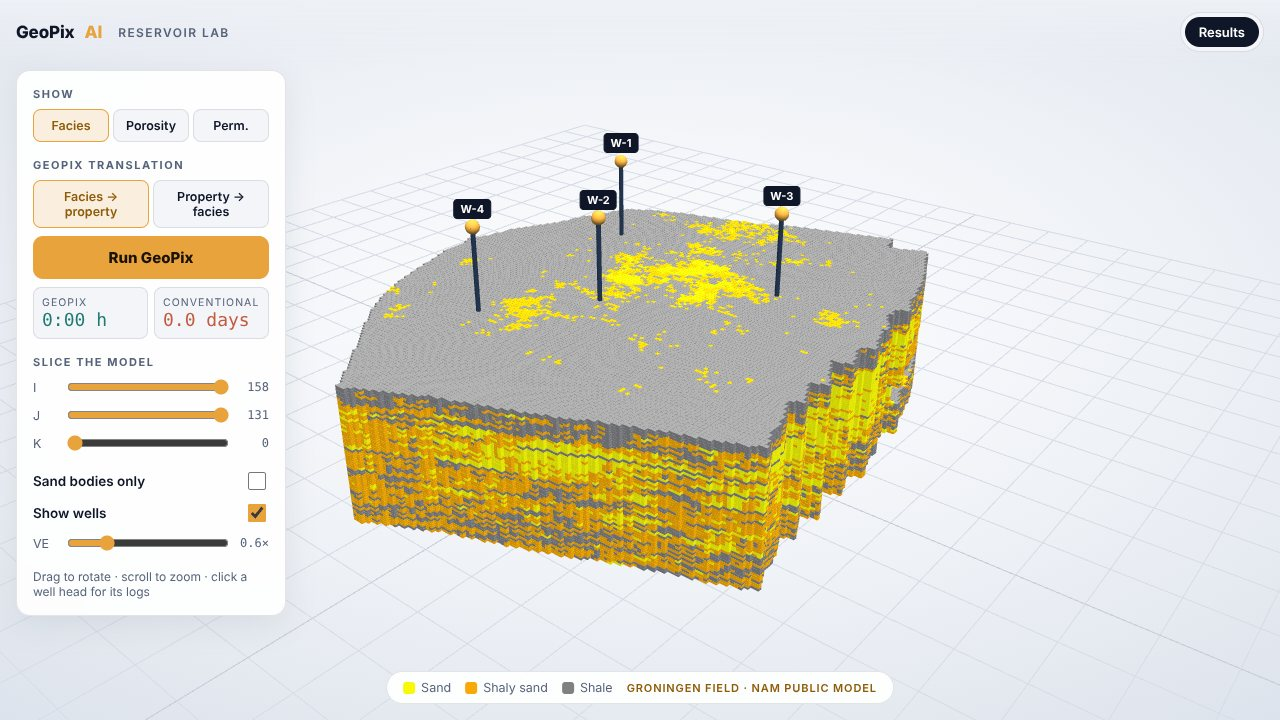
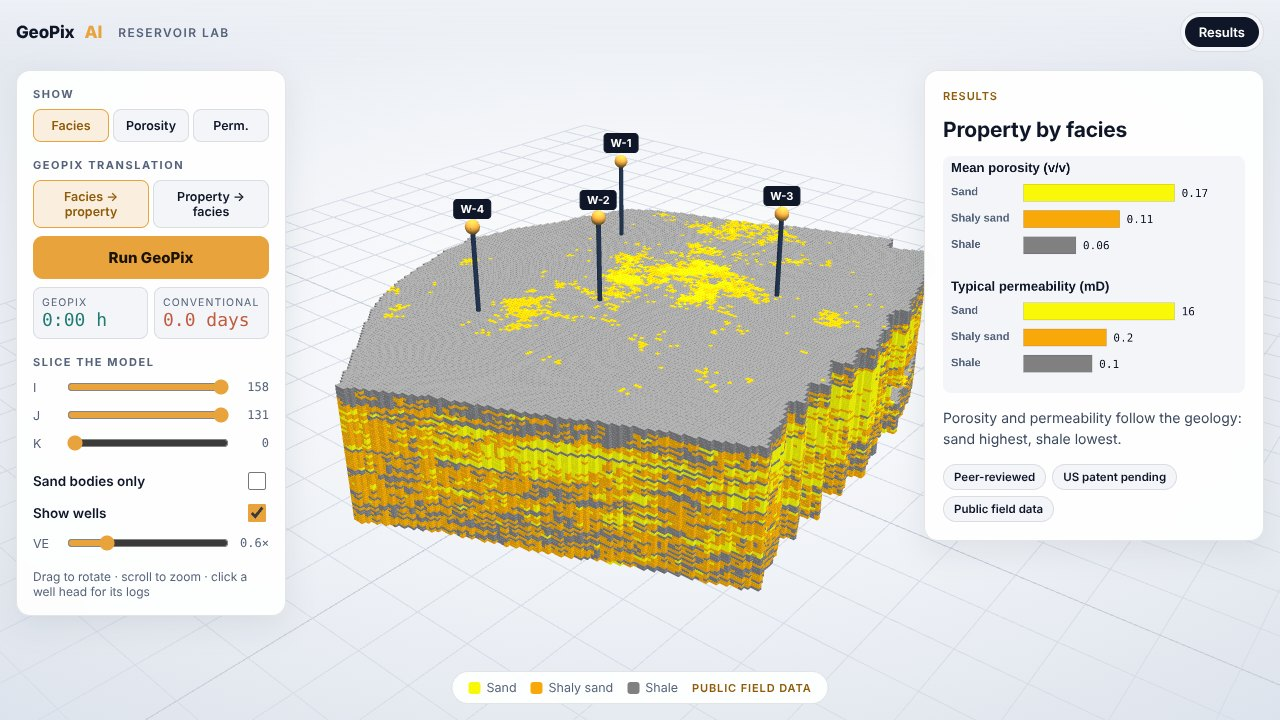
Remove field name from the 3D lab and site; neutral wording and data file names
Claude-Session: https://claude.ai/code/session_015ef8sZ4s8jMuEacFnn1uo6

diff --git a/lab/index.html b/lab/index.html
@@ -3,7 +3,7 @@
 <meta name="claude:viewport-fit-sides" content="cover">
 <link rel="stylesheet" href="https://fonts.googleapis.com/css2?family=Archivo:wght@500;600;700;800&family=IBM+Plex+Mono:wght@400;500&display=swap">
 <style>
-/* Layout: full-window 3D viewport of the real Groningen model; controls float left, info panel right. Light theme to match geopix-ai.com. */
+/* Layout: full-window 3D viewport of the real reservoir model; controls float left, info panel right. Light theme to match geopix-ai.com. */
 :root{
   --bg:#EEF1F6; --panel:rgba(255,255,255,.93); --panel-2:#F3F5F9; --line:rgba(14,22,40,.11);
   --ink:#0E1628; --dim:#55637A; --amber:#E8A33D; --amber-ink:#8F5B08; --teal:#1F7A72; --slow:#C25A3E;
@@ -77,8 +77,8 @@ button:focus-visible,input:focus-visible,a:focus-visible{outline:2px solid var(-
 }
 </style>
 
-<div id="scene" role="img" aria-label="3D view of the Groningen reservoir model with wells; drag to rotate, scroll to zoom"></div>
-<div class="loading" id="loading">Loading the Groningen reservoir model…</div>
+<div id="scene" role="img" aria-label="3D view of the reservoir model with wells; drag to rotate, scroll to zoom"></div>
+<div class="loading" id="loading">Loading the model…</div>
 
 <div class="topbar">
   <div class="brand">GeoPix <b>AI</b> <small>Reservoir Lab</small></div>
@@ -133,11 +133,11 @@ button:focus-visible,input:focus-visible,a:focus-visible{outline:2px solid var(-
 (async()=>{
 const reduce=matchMedia('(prefers-reduced-motion: reduce)').matches;
 
-/* ---------------- real data: NAM Groningen static model V6 (public), every 4th cell ---------------- */
+/* ---------------- real data: public static reservoir model, every 4th cell ---------------- */
 let meta,buf;
 try{
-  meta=await (await fetch('groningen.json')).json();
-  const b64=(await (await fetch('groningen.b64.txt')).text()).trim();
+  meta=await (await fetch('model.json')).json();
+  const b64=(await (await fetch('model.b64.txt')).text()).trim();
   const raw=Uint8Array.from(atob(b64),c=>c.charCodeAt(0));
   buf=new Uint8Array(await new Response(new Blob([raw]).stream().pipeThrough(new DecompressionStream('gzip'))).arrayBuffer());
 }catch(e){document.getElementById('loading').textContent='Could not load the reservoir model. Reload the page to try again.';return}
@@ -239,7 +239,7 @@ function legend(){const el=document.getElementById('legend'),p=S.prop;
   if(p==='facies')el.innerHTML=FN.map((n,i)=>`<span><i class="sw" style="background:rgb(${FC[i].map(v=>Math.round(v*255))})"></i>${n}</span>`).join('');
   if(p==='phi')el.innerHTML=`<span>Porosity</span><span>${PHI_LO}<i class="ramp" style="background:${css(JET)}"></i>${PHI_HI} v/v</span>`;
   if(p==='perm')el.innerHTML=`<span>Permeability</span><span>0.01<i class="ramp" style="background:${css(PJET)}"></i>1000 mD</span>`;
-  el.innerHTML+='<span class="tag">Groningen field · NAM public model</span>';
+  el.innerHTML+='<span class="tag">Public field data</span>';
 }
 
 /* ---------------- field statistics (computed from the data) ---------------- */
@@ -254,7 +254,7 @@ function renderInfo(){
     if(S.well){
       info.innerHTML=`<span class="tag">Well column</span><h2>${S.well.n}</h2>
         <div id="logs"><canvas width="600" height="600" aria-label="Facies, porosity and permeability down ${S.well.n}"></canvas></div>
-        <p class="note">Facies · porosity · log permeability through all ${NK} layers at this location, from the Groningen model.</p>
+        <p class="note">Facies · porosity · log permeability through all ${NK} layers at this location, from the reservoir model.</p>
         <button class="chip" id="closeWell">Back to results</button>`;
       drawLogs(S.well);document.getElementById('closeWell').onclick=()=>{S.well=null;S.tab='tech';syncTabs();renderInfo()};return;
     }

diff --git a/story.html b/story.html
@@ -377,7 +377,7 @@ function renderFull(){
     const t=T.find(x=>x[0]===S.ev)||T[0];
     full.innerHTML=`<div class="card full">
       <div><span class="eyebrow">The evidence</span><h2 style="font-family:var(--display);font-size:24px;margin:4px 0 0">The story above is a schematic. This is the measured result.</h2>
-      <p class="note" style="margin-top:6px;max-width:70ch">Everything on this page so far was drawn to explain the workflow. The figures and numbers below come from the peer-reviewed study on the Groningen field dataset.</p></div>
+      <p class="note" style="margin-top:6px;max-width:70ch">Everything on this page so far was drawn to explain the workflow. The figures and numbers below come from the peer-reviewed study on a public field dataset.</p></div>
       <div class="ev">
         <div class="ev-fig">
           <div class="evctl">
@@ -393,10 +393,10 @@ function renderFull(){
             <input type="range" id="evr" min="0" max="100" value="${S.evPos}" aria-label="Drag to compare">
           </div>
           <div class="lg">${S.evMode==='facies'?FL:''}${t[3]}</div>
-          <p class="note">One slice of the Groningen field model. ${S.evMode==='facies'?'Drag the handle: the facies on the left is the only input, and the property on the right is what GeoPix generated from it.':'Drag the handle to compare GeoPix output with the reference property on the same slice.'} Figures from Al-Fakih et al. (2026).</p>
+          <p class="note">One slice of the field model. ${S.evMode==='facies'?'Drag the handle: the facies on the left is the only input, and the property on the right is what GeoPix generated from it.':'Drag the handle to compare GeoPix output with the reference property on the same slice.'} Figures from Al-Fakih et al. (2026).</p>
         </div>
         <div class="ev-tab">
-          <p class="note" style="font-size:16px">Peer-reviewed in <i>Geoenergy Science and Engineering</i> (2026) on the Groningen field dataset. Full method and evaluation in the paper: doi.org/10.1016/j.geoen.2025.214342.</p>
+          <p class="note" style="font-size:16px">Peer-reviewed in <i>Geoenergy Science and Engineering</i> (2026) on a public field dataset. Full method and evaluation in the paper: doi.org/10.1016/j.geoen.2025.214342.</p>
         </div>
       </div>
       <div><span class="eyebrow">Evidence ledger</span>

diff --git a/index.html b/index.html
@@ -409,7 +409,7 @@
           <span class="t l">Facies</span><span class="t r" id="hwTag">GeoPix porosity</span>
         </div>
         <div class="hdots" id="hwDots"></div>
-        <figcaption class="cap">Real Pix2Geomodel outputs · Groningen field</figcaption>
+        <figcaption class="cap">Real Pix2Geomodel outputs · public field data</figcaption>
       </figure>
     </div>
   </section>
@@ -459,7 +459,7 @@
         <p class="lead">Pick a map, press Run, and compare the result with the reference.</p>
       </div>
       <div class="app reveal">
-        <div class="appbar"><i></i><i></i><i></i><span>GeoPix Studio</span><em>Real Pix2Geomodel results · Groningen field</em></div>
+        <div class="appbar"><i></i><i></i><i></i><span>GeoPix Studio</span><em>Real Pix2Geomodel results · public field data</em></div>
         <div class="appbody">
           <aside class="side">
             <div>
@@ -511,10 +511,10 @@
         <div class="tile reveal">
           <h3>Explore the field in 3D</h3>
           <div class="lab-frame" id="labFrame">
-            <img src="assets/lab-poster.jpg" alt="3D view of the Groningen reservoir model with four wells" loading="lazy">
+            <img src="assets/lab-poster.jpg" alt="3D view of the reservoir model with four wells" loading="lazy">
             <button class="go" id="labGo" type="button"><span>Launch the 3D lab</span></button>
           </div>
-          <div class="row"><span>Groningen field, NAM public model.</span><a href="lab/" target="_blank" rel="noopener">Full screen ↗</a></div>
+          <div class="row"><span>Real reservoir model, public field data.</span><a href="lab/" target="_blank" rel="noopener">Full screen ↗</a></div>
         </div>
       </div>
       <div class="soonbar reveal"><span class="badge2">Coming soon</span><b>Upload your own map</b><span class="t">and get the GeoPix result in seconds.</span><a href="#contact" data-interest="Technical Demonstration">Request early access →</a></div>

diff --git a/terms.html b/terms.html
@@ -4,7 +4,7 @@
 <body><header><div class="w"><a href="./">GeoPix <em>AI</em></a></div></header><main class="w"><h1>Terms of Service</h1><p class="d">Last updated: 21 October 2026</p>
 <p>These terms govern your use of geopix-ai.com (the "Site"), operated by GeoPix AI. By using the Site you agree to them.</p>
 <h2>Use of the Site</h2><p>The Site provides information about GeoPix AI and interactive demonstrations. You may browse it for lawful, non-commercial evaluation purposes. Do not attempt to copy, scrape, reverse-engineer or disrupt the Site or its demonstrations.</p>
-<h2>Demonstrations</h2><p>Demonstration results shown on the Site use public data (the NAM Groningen static reservoir model) and pre-computed outputs from published research. They illustrate the technology and are not a guarantee of results on any specific dataset.</p>
+<h2>Demonstrations</h2><p>Demonstration results shown on the Site use public data (a published static reservoir model) and pre-computed outputs from published research. They illustrate the technology and are not a guarantee of results on any specific dataset.</p>
 <h2>Intellectual property</h2><p>The GeoPix AI name, logo, Site content and the Pix2Geomodel technology are the property of GeoPix AI or its licensors. A patent application has been filed for the technology. Third-party names and logos belong to their respective owners and are shown to acknowledge collaboration and support.</p>
 <h2>No professional advice</h2><p>Content on the Site is for general information. It is not engineering, investment or other professional advice, and decisions should rely on a project-specific evaluation.</p>
 <h2>Limitation of liability</h2><p>The Site is provided "as is". To the extent permitted by law, GeoPix AI is not liable for any loss arising from use of the Site or reliance on its content.</p>
